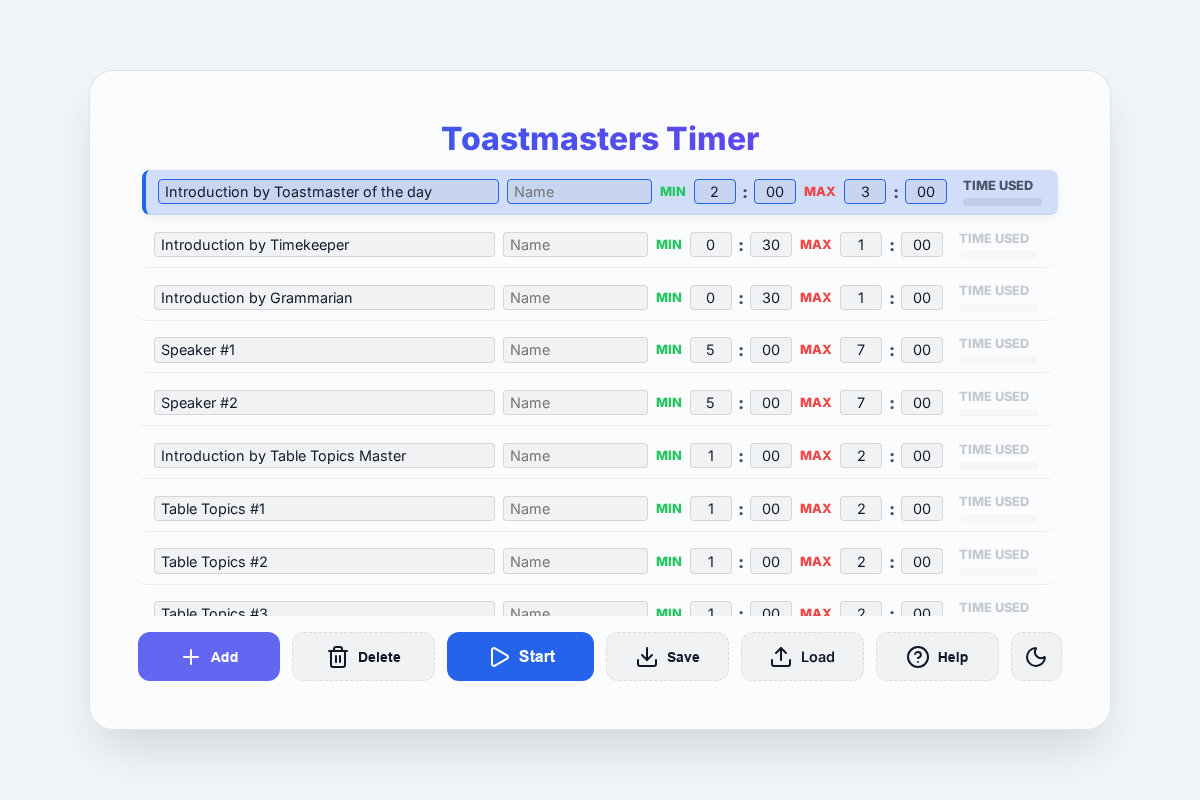
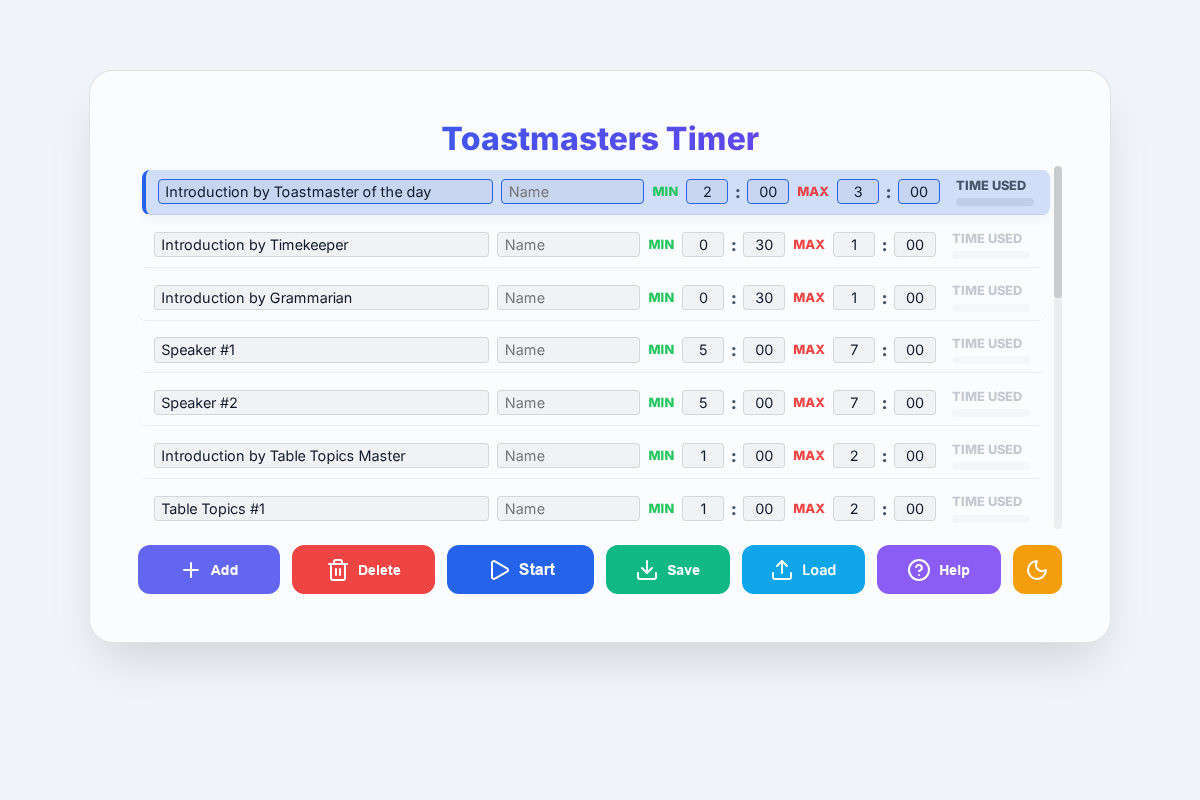
feat: Updated the colour of the buttons

diff --git a/www/index.css b/www/index.css
@@ -168,7 +168,9 @@ body.state-bell {
 body.dark-theme #setup-view {
   box-shadow: 0 25px 50px -12px rgba(0, 0, 0, 0.5);
 }
+
 @media (max-width: 850px) {
+
   body.dark-theme #setup-view,
   body.dark-theme #summary-view {
     box-shadow: none !important;
@@ -396,10 +398,16 @@ input:focus {
   border-color: var(--accent) !important;
 }
 
+.secondary-btn.danger-btn {
+  background: var(--tm-red);
+  color: white;
+  border: 1px solid var(--tm-red);
+}
+
 .secondary-btn.danger-btn:hover {
-  background: var(--delete-hover-bg);
-  border-color: var(--tm-red);
-  color: var(--tm-red);
+  background: #dc2626;
+  border-color: #dc2626;
+  color: white;
 }
 
 .secondary-btn.danger-btn:disabled {
@@ -408,6 +416,7 @@ input:focus {
   background: var(--secondary-btn-bg);
   color: var(--text-secondary);
   border-color: var(--glass-border);
+  border-style: dashed;
 }
 
 .setup-actions {
@@ -467,6 +476,55 @@ button#back-btn {
 .secondary-btn:hover {
   background: var(--secondary-btn-hover);
   border-color: var(--text-secondary);
+}
+
+#save-btn {
+  background: #10b981;
+  color: white;
+  border: none;
+}
+
+#save-btn:hover {
+  background: #34d399;
+}
+
+#load-label.secondary-btn {
+  background: #0ea5e9;
+  color: white;
+  border: none;
+}
+
+#load-label.secondary-btn:hover {
+  background: #38bdf8;
+}
+
+#usage-btn {
+  background: #8b5cf6;
+  color: white;
+  border: none;
+}
+
+#usage-btn:hover {
+  background: #a78bfa;
+}
+
+#theme-btn.secondary-btn {
+  background: #f59e0b;
+  color: white;
+  border: none;
+}
+
+#theme-btn.secondary-btn:hover {
+  background: #fbbf24;
+}
+
+body.dark-theme #theme-btn.secondary-btn {
+  background: #3b82f6;
+  /* Blue for moon/night */
+}
+
+body.dark-theme #theme-btn.secondary-btn:hover {
+  background: #60a5fa;
 }
 
 #add-slot-btn {
@@ -676,7 +734,9 @@ button#back-btn:hover {
 
 /* Responsive */
 @media (max-width: 850px) {
-  body, #app {
+
+  body,
+  #app {
     height: 100vh !important;
     overflow: hidden !important;
   }
